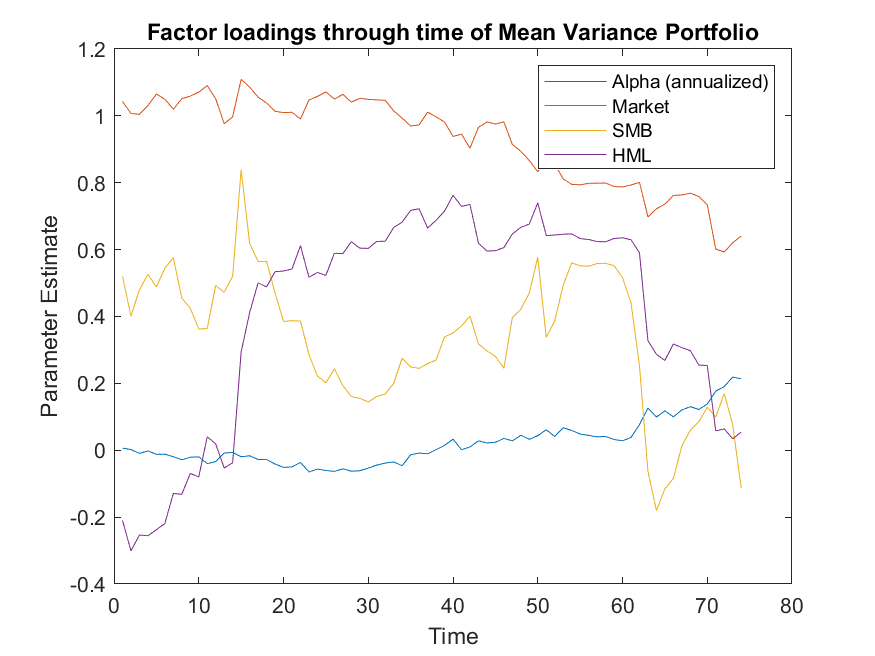
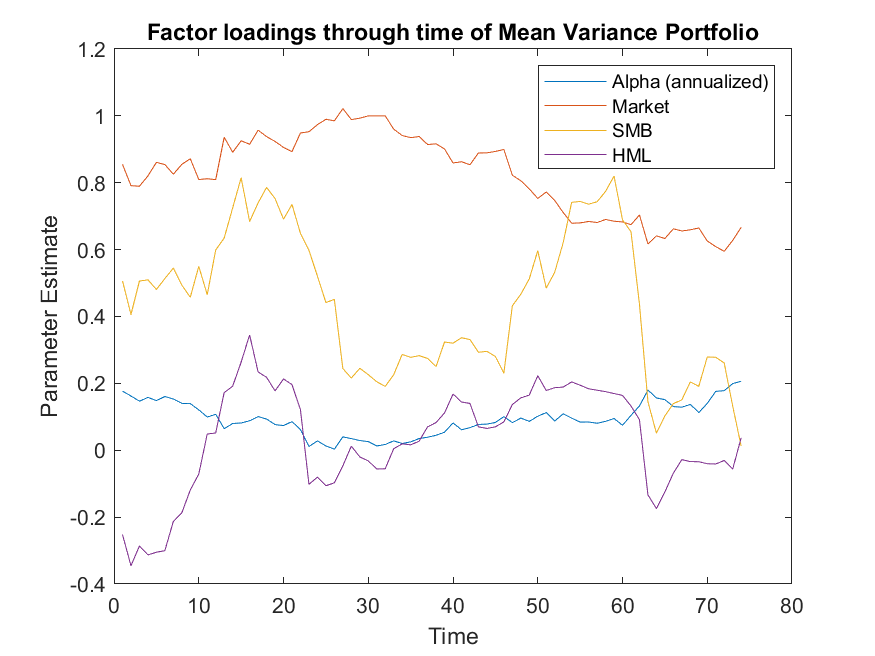
Add files via upload

diff --git a/Assignment_9.m b/Assignment_9.m
@@ -1,0 +1,352 @@
+% MBF: Applied Quantitative Asset Management
+% Spring 2025
+%
+% AQAM: Course Assignment
+% 
+%European Defense Sector Equity Fund
+%-------------------------------------------------------------------------
+
+clear; clc;
+Assets = xlsread( 'C:\Users\emaho\Desktop\2 year lessons\AQAM\Assignment\assignment_prices.xlsx' );
+Factors=csvread('C:\Users\emaho\Desktop\2 year lessons\AQAM\Assignment\Europe_3_FF_Factors.csv',1,1); 
+
+%%%% Since I have a Mac
+%Assets = Assets(:,2:end)
+
+Factors = log(1+Factors/100);
+Factors = Factors(2:end,:);
+Market=Factors( :, 1 );                         % Defines the market excess return
+SMB=Factors( :, 2 );                            % Defines the Small-Minus-Big factor
+HML=Factors( :, 3 );                            % Defines the High-Minus-Low factor
+Rf = Factors(:,4);
+No_Assets = size( Assets, 2 )-1;
+Returns   = diff( log( Assets ) );
+Returns(:, 12) = [];  % Remove 12th stock as it has too few observations
+
+
+% Calculate Standard Statistics            %these 
+Mean = mean(Returns,'omitnan');
+Median = median(Returns);
+Volatility = std(Returns,'omitnan');
+Returns_for_corr = Returns;
+Returns_for_corr(any(isnan(Returns_for_corr), 2), :) = [];
+Corr = corr(Returns_for_corr);
+Cov = cov(Returns_for_corr);
+
+Skew = skewness(Returns);
+Kurt = kurtosis(Returns);
+
+Forecast_Variance = zeros(size(Returns, 2),1);
+
+%Estimating Garch Model to use for VARCOV
+Models_GARCH = cell(size(Returns, 2), 1);  % Pre-allocate cell array to store models
+
+for i = 1:size(Returns,2)
+
+    Returns_Help = Returns(:,i) - mean( Returns(:,i),'omitnan'); %here we just demean the returns, CER
+    mdl = garch(1,1);
+    mdl = estimate(mdl, Returns_Help);
+
+    Models_GARCH{i} = mdl;                  % Store model in cell array
+
+
+
+end
+
+
+%Estimation of VARCOV in final period
+for i = 1:size(Returns,2)
+    Returns_Help = Returns(:,i) - mean( Returns(:,i),'omitnan');
+    Returns_Help = Returns_Help(~isnan(Returns_Help));  % Remove NaN values
+    Fore = forecast(Models_GARCH{i},1,'Y0',Returns_Help);
+    Forecast_Variance(i,1) = Fore;
+    
+end
+Forecast_Volatility = sqrt(Forecast_Variance);
+
+VARCOV = Forecast_Volatility * Forecast_Volatility' .* Corr;
+
+%Mean-Variance optimization
+weights_MV = ones(No_Assets,1)/No_Assets;
+
+% Objective function (Sharpe Ratio)
+objective = @(weights_MV) -(Mean*weights_MV - Rf(end)) / sqrt(weights_MV' * VARCOV * weights_MV);  % Negative Sharpe Ratio to minimize
+
+%Set constraints
+A = []; b = [];  % No inequality constraints in this case\
+Aeq = ones(1,No_Assets); beq = 1;  % weights sum to 1
+lb = zeros(No_Assets,1); ub = 0.3 * ones(No_Assets,1);  % 0 ≤ weights ≤ 0.3
+
+% Optimization
+options = optimset('Display', 'off');
+[w_MV_f, sr_MV] = fmincon(objective, weights_MV, A, b, Aeq, beq, lb, ub, [], options);
+
+Er_MV = Mean * weights_MV;
+Vol_MV = sqrt(weights_MV' * VARCOV * weights_MV);
+SR_MV = -sr_MV * sqrt(12);   %annualize the SR
+
+%% Backtesting GARCH VARCOV MV
+Wealth_GARCH_MV(1,1) = [100];
+Returns_GARCH_MV = zeros(121,1);
+
+for i = 1 : size(Returns, 1)
+
+    Returns_Help = Returns(1:i,:);
+    %Estimating VARCOV period by period for each stock with garch
+    for j = 1 : No_Assets
+
+        %Returns_demeaned = Returns_Help(:,j) - mean(Returns_Help(:,j));
+        Returns_demeaned = Returns_Help(:,j) - Mean(:,j);
+
+        Returns_demeaned = Returns_demeaned(~isnan(Returns_demeaned));  % Remove NaN values
+        if isempty(Returns_demeaned)
+            Forecast_Variance(j,1) = 999;   %make variance very high if NaN so we don't invest in it
+   
+        else 
+            Fore = forecast(Models_GARCH{j},1,'Y0',Returns_demeaned);
+            Forecast_Variance(j,1) = Fore;
+        end
+
+    
+    end
+    
+    Forecast_Volatility = sqrt(Forecast_Variance);
+
+    VARCOV = Forecast_Volatility * Forecast_Volatility' .* Corr;
+
+    weights_MV = ones(No_Assets,1)/No_Assets;
+
+    Returns_Help_adj = Returns_Help;
+    Returns_Help_adj(isnan(Returns_Help_adj)) = 0; 
+    objective = @(weights_MV) -(Mean*weights_MV - Rf(i)) / sqrt(weights_MV' * VARCOV * weights_MV);  % Negative Sharpe Ratio to minimize
+    %objective = @(weights_MV) -(mean(Returns_Help_adj,1)*weights_MV - Rf(i)) / sqrt(weights_MV' * VARCOV * weights_MV);  % Negative Sharpe Ratio to minimize
+
+
+    %Set constraints
+    A = []; b = [];  % No inequality constraints in this case\
+    Aeq = ones(1,No_Assets); beq = 1;  % weights sum to 1
+    lb = zeros(No_Assets,1); ub = 0.3 * ones(No_Assets,1);  % 0 ≤ weights ≤ 0.3
+
+    % Optimization
+    options = optimset('Display', 'off');
+    [w_MV, sr_MV] = fmincon(objective, weights_MV, A, b, Aeq, beq, lb, ub, [], options);
+    w_MV(w_MV < 0.001) = 0;        %set to 0 very small values
+    w_MV = w_MV/sum(w_MV);        %Rebalance weights
+    weights_backtest_MV(i,:) = w_MV;
+    sum_w(i) = sum(weights_backtest_MV(i,:));
+
+    if i==1
+        TC = sum(abs(w_MV))*0.0005;
+    else 
+        TC = sum(abs(w_MV-w_MV_TC))*0.0005;
+    end
+    
+    TC_hist(i) = TC;
+    w_MV_TC = w_MV;
+
+    Returns_adj = Returns(i,:);
+    Returns_adj(isnan(Returns_adj)) = 0;
+    Ret_GARCH_MV = Returns_adj * w_MV - TC;
+    Returns_GARCH_MV(i,1) = Ret_GARCH_MV;
+    Wealth_GARCH_MV(i+1,1) = Wealth_GARCH_MV(i,1) * exp(Ret_GARCH_MV);
+
+
+end
+
+plot(Wealth_GARCH_MV);
+
+%% Backtesting equally weighted portfolio
+Wealth_ew(1,1) = [100];
+Returns_ew = zeros(121,1);
+
+for i = 1:size(Returns,1)
+    cols_with_nan = isnan(Returns(i, :));
+    weights_ew = ones(size(Returns,2),1)/size(Returns,2);
+    weights_ew(cols_with_nan) = 0;
+    weights_ew = weights_ew/sum(weights_ew);
+  
+
+    if i==1
+        TC = sum(abs(weights_ew))*0.0005;
+    else 
+        TC = sum(abs(weights_ew-weights_ew_TC))*0.0005;
+    end
+    
+    weights_ew_TC = weights_ew;
+    Returns_cleaned = Returns(i,:);
+    Returns_cleaned(isnan(Returns_cleaned)) = 0;
+    Ret_ew = Returns_cleaned * weights_ew - TC;
+    % Added to have returns as well as wealth
+    Returns_ew(i,1) = Ret_ew;
+    Wealth_ew(i+1,1) = Wealth_ew(i,1) * exp(Ret_ew);
+
+
+end
+plot(Wealth_ew);
+
+%% Performance measures
+% Create excess returns
+Returns_ew_excess = Returns_ew - Rf
+Returns_GARCH_MV_excess = Returns_GARCH_MV - Rf
+
+% Average absolute monthly excess returns
+Avg_monthly_ew = exp(mean(Returns_ew_excess))-1
+Avg_monthly_GARCH_MV = exp(mean(Returns_GARCH_MV_excess))-1
+
+% Average absolute annual excess returns
+Avg_annual_ew = exp(mean(Returns_ew_excess)*12)-1
+Avg_annual_GARCH_MV = exp(mean(Returns_GARCH_MV_excess)*12)-1
+
+% Standard deviations
+Std_ew = std(Returns_ew_excess) * sqrt(12)
+Std_GARCH_MV = std(Returns_GARCH_MV_excess) * sqrt(12)
+
+% Skewness
+Skew_ew = skewness(Returns_ew_excess)
+Skew_GARCH_MV = skewness(Returns_GARCH_MV_excess)
+
+% Kurtosis
+Kurt_ew = kurtosis(Returns_ew_excess)
+Kurt_GARCH_MV = kurtosis(Returns_GARCH_MV_excess)
+
+% Sharpe ratio
+Sharpe_ew = (mean(Returns_ew_excess) / std(Returns_ew_excess)) * sqrt(12)
+Sharpe_GARCH_MV = (mean(Returns_GARCH_MV_excess) / std(Returns_GARCH_MV_excess))* sqrt(12)
+
+% Estimate betas
+b_ew = regress(Returns_ew_excess, Market)
+b_GARCH_MV = regress(Returns_GARCH_MV_excess, Market)
+
+Treynor_ew = mean(Returns_ew_excess)*12/b_ew
+Treynor_GARCH_MV = mean(Returns_GARCH_MV_excess)*12/b_GARCH_MV
+
+%%%%%%%%%%%%%%%%%%%%%%%%%%%%
+% Maximum Drawdown
+Maximum_Drawdown_ew = 0
+for i = 1 : size( Wealth_ew, 1 )
+    High_Water_Mark = max( Wealth_ew( 1 : i,1 ))
+    Drawdown = ( Wealth_ew( i, 1 ) - High_Water_Mark ) / High_Water_Mark
+    Maximum_Drawdown_ew = min( Maximum_Drawdown_ew, Drawdown )
+end
+
+Maximum_Drawdown_GARCH_MV = 0
+for i = 1 : size( Wealth_GARCH_MV, 1 )
+    High_Water_Mark = max( Wealth_GARCH_MV( 1 : i,1 ))
+    Drawdown = ( Wealth_GARCH_MV( i, 1 ) - High_Water_Mark ) / High_Water_Mark
+    Maximum_Drawdown_GARCH_MV = min( Maximum_Drawdown_GARCH_MV, Drawdown )
+end
+
+%% Historical VAR
+VAR_ew = 1 - exp(prctile( Returns_ew_excess, [ 1 ] ))
+VAR_GARCH_MV = 1 - exp(prctile( Returns_GARCH_MV_excess, [ 1 ] ))
+
+%% Shortfall measures
+Shortfall_ew = 1 - exp(mean(Returns_ew_excess(Returns_ew_excess <= prctile(Returns_ew_excess, 1))))
+Shortfall_GARCH_MV = 1 - exp(mean(Returns_GARCH_MV_excess(Returns_GARCH_MV_excess <= prctile(Returns_GARCH_MV_excess, 1))))
+
+
+%% Add appropriate benchmark
+index=readmatrix('C:\Users\emaho\Desktop\2 year lessons\AQAM\Assignment\index.csv'); 
+%%%% Since I have a Mac
+index = index(:,2:end)
+index   = diff( log( index ) );
+
+% Regressing for Alpha
+reg1 = regress(Returns_ew, [ones(length(index), 1), index])
+reg2 = regress(Returns_GARCH_MV, [ones(length(index), 1), index])
+
+alpha_ew = exp(reg1(1)*12)-1
+alpha_GARCH_MV = exp(reg2(1)*12)-1
+
+% Tracking Error
+TE_ew = std(Returns_ew - index) * sqrt(12)
+TE_GARCH = std(Returns_GARCH_MV - index) * sqrt(12)
+
+% Information Ratio
+IR_ew = alpha_ew / TE_ew
+IR_GARCH = alpha_GARCH_MV / TE_GARCH
+
+%% Figure of Wealth
+%Calculate Wealth investing in index
+index_wealth = [100];
+for i = 1 : size(index,1)
+   index_wealth(i+1) = index_wealth(i)*exp(index(i));
+end
+% Create time vector from Feb 2015 to Feb 2025 with same length as data
+startDate = datetime(2015, 2, 1);
+endDate = datetime(2025, 2, 1);
+time = linspace(startDate, endDate, length(Wealth_GARCH_MV))';
+
+% Plot the three series
+figure;
+plot(time, Wealth_GARCH_MV, 'b-', 'LineWidth', 1.5); hold on;
+plot(time, Wealth_ew, 'r-', 'LineWidth', 1.5);
+plot(time, index_wealth, 'k-.', 'LineWidth', 1.5);
+hold off;
+
+% Labels and legend
+xlabel('Time');
+ylabel('Cumulative Performance');
+title('Portfolio Performance Comparison');
+legend('Mean Variance with Garch', 'Equally Weighted', ...
+       'STOXX Europe Total Market Aerospace & Defense', ...
+       'Location', 'northwest');
+
+grid on;
+xlim([startDate endDate]);
+
+saveas(gcf, 'portfolio_comparison.png');
+
+
+%% Factor Loadings GARCH MV
+
+Fund_Exposure_Results = zeros( size( Returns_GARCH_MV_excess, 1 ) - 47, 5 );   %take only 4 years as we estimate only 4 parameters (3 Factors + intercept)
+
+for i = 48 : size(Returns_GARCH_MV_excess)
+    Returns_Help = Returns_GARCH_MV_excess((i-47):i);
+    Factors_Help = Factors((i-47):i,1:3);
+    [b,bint,r,rint,stats] = regress( Returns_Help, [ ones( size( Returns_Help, 1 ), 1 ) Factors_Help ] );
+    Factors_Exposure_Results_GARCH_MV( i - 47, : ) = b';
+end
+
+Factors_Exposure_Results_GARCH_MV(:,1) = Factors_Exposure_Results_GARCH_MV(:,1)*12;    %annualize alpha for better graphic rapresentation
+
+
+% Illustrate style drift using a graph
+plot( Factors_Exposure_Results_GARCH_MV );
+legend( 'Alpha (annualized)', 'Market', 'SMB', 'HML' );
+xlabel( 'Time' );
+ylabel( 'Parameter Estimate' );
+title('Factor loadings through time of Mean Variance Portfolio');
+
+saveas(gcf, 'factor_loadings_MV.png');
+
+%% Factor Loadings Equally weighted
+
+Fund_Exposure_Results = zeros( size( Returns_ew_excess, 1 ) - 47, 5 );   %take only 4 years as we estimate only 4 parameters (3 Factors + intercept)
+
+for i = 48 : size(Returns_ew_excess)
+    Returns_Help = Returns_ew_excess((i-47):i);
+    Factors_Help = Factors((i-47):i,1:3);
+    [b,bint,r,rint,stats] = regress( Returns_Help, [ ones( size( Returns_Help, 1 ), 1 ) Factors_Help ] );
+    Factors_Exposure_Results_ew( i - 47, : ) = b';
+end
+
+Factors_Exposure_Results_ew(:,1) = Factors_Exposure_Results_ew(:,1)*12;
+
+% Illustrate style drift using a graph
+plot( Factors_Exposure_Results_ew );
+legend( 'Alpha (annualized)', 'Market', 'SMB', 'HML' );
+xlabel( 'Time' );
+ylabel( 'Parameter Estimate' );
+title('Factor loadings through time of Equally Weighted Portfolio');
+
+
+saveas(gcf, 'factor_loadings_ew.png');
+
+
+
+
+
+
+
